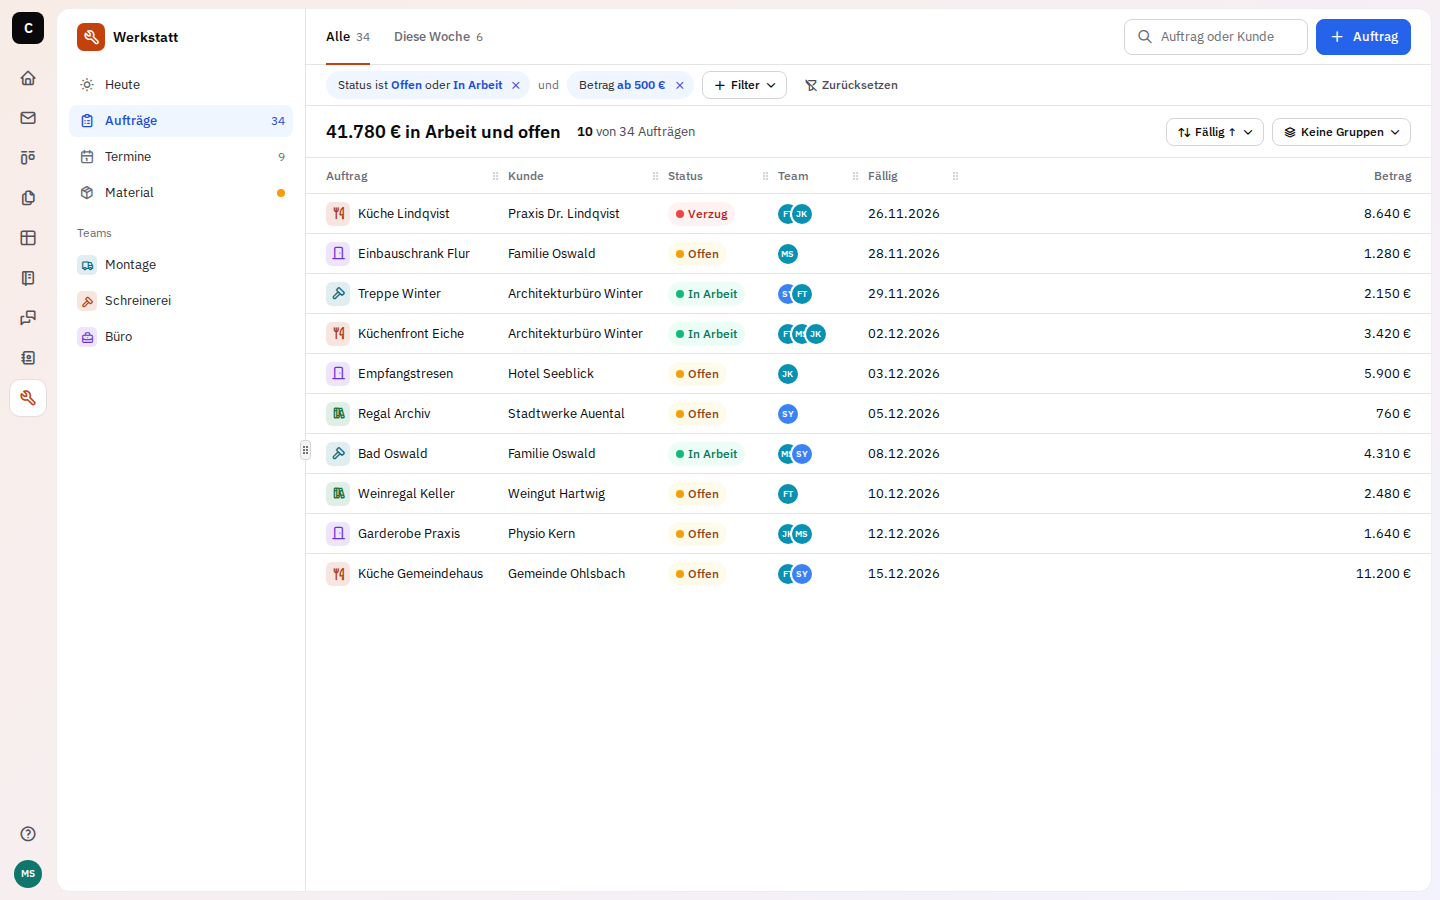
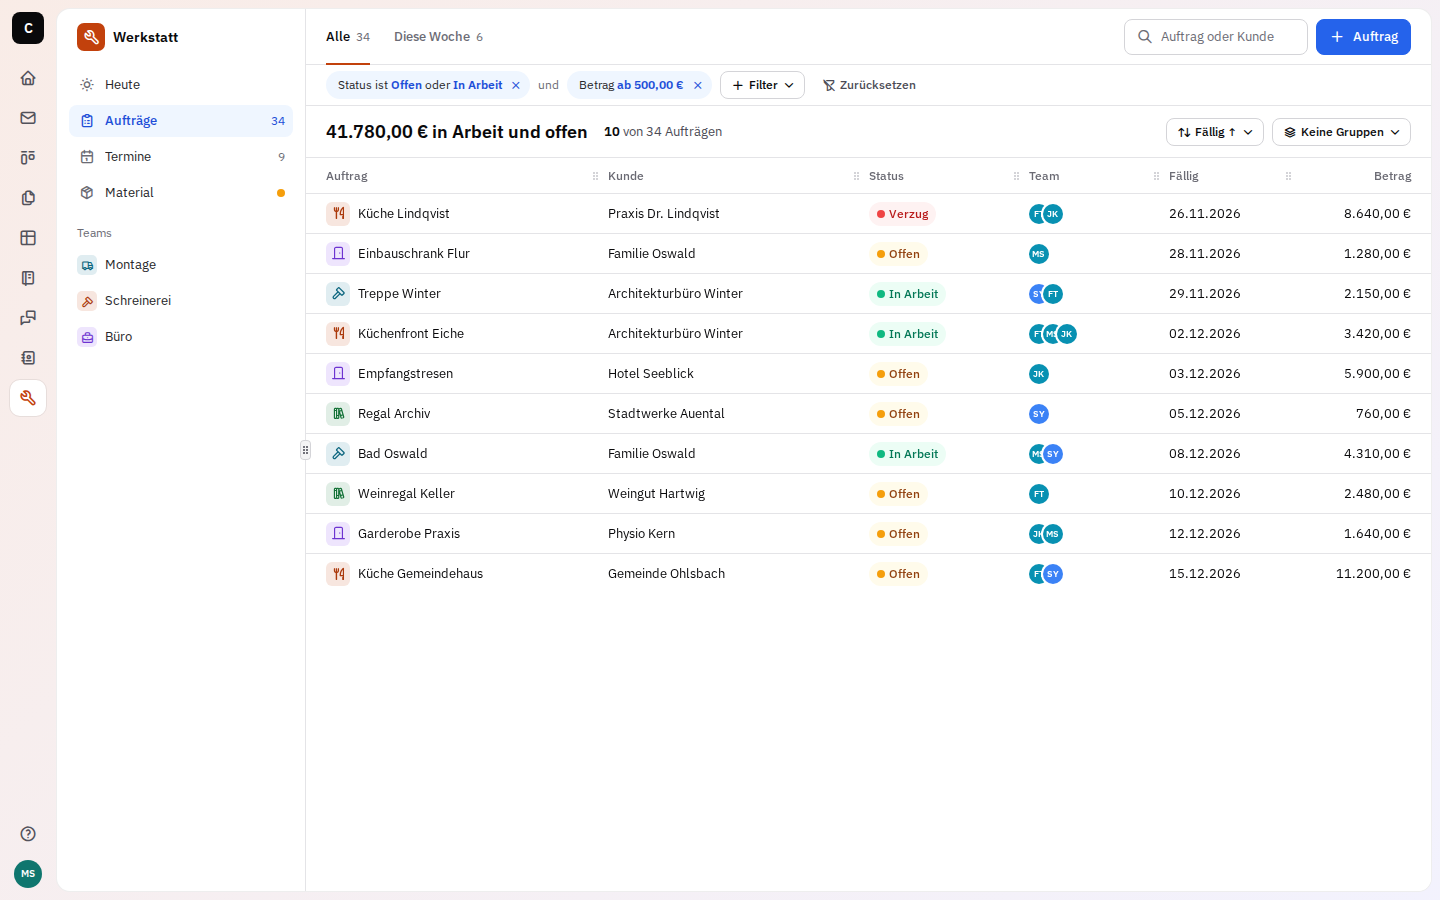
fix(ui): columns without a width fill the row exactly, and group heads stand at the height of the column heads

diff --git a/packages/ui/src/v2/content.tsx b/packages/ui/src/v2/content.tsx
@@ -504,8 +504,8 @@ export type Column<T> = {
    * The width of the column, its minimum and default in px: a column that can be dragged wider or narrower (a grip in
    * its head); in a small table it is its default wide where the row has room and shares the room left with the other
    * columns that can give way; where the row has less, it gives way down to its minimum. `{ fixed }` is that width
-   * without a grip, such as a narrow column of numbers or deeds; it neither gives way nor grows. Columns without a
-   * width take the rest of the row when no column can give way. Cut text never widens a column.
+   * without a grip, such as a narrow column of row actions; it neither gives way nor grows. Columns without a width
+   * share the rest of the row by how much their text asks for (at least 96 px each). Cut text never widens a column.
    */
   width?: Width;
   /** A text column that may wrap to at most three lines; the row grows, every other cell stays on its first line. */
@@ -697,16 +697,20 @@ export const Table = <T,>(props: TableProps<T>) => {
       return longest === 0 ? 0 : Math.max(longest, signsOf(column.title));
     }),
   );
-  // How long the text of each column is, in signs (its longest value, at least its head): the columns without a width
-  // share the rest of the row in this measure, so the one with more to say gets more room.
-  const lengths = createMemo(() =>
-    props.columns.map((column, index) =>
-      Math.max(
-        1,
-        signsOf(column.title),
-        values().reduce((most, row) => Math.max(most, signsOf(row[index]!)), 0),
-      ),
-    ),
+  // The room each column's content asks for, in px: a text its signs at about 7 px and the padding of its cell, a part
+  // the app made (a chip, a link, a button) as much as a column without a width; at least its head. The columns
+  // without a width share the rest of the row in this measure, so the one with more to say gets more room.
+  const rooms = createMemo(() =>
+    props.columns.map((column, index) => {
+      const text = (signs: number) => Math.max(signs, 1) * 7 + 32;
+      const ask = (value: CellValue) =>
+        typeof value === "string" || typeof value === "number" || isPair(value)
+          ? text(signsOf(value))
+          : value === undefined || value === null || typeof value === "boolean"
+            ? 0
+            : flexibleColumn;
+      return values().reduce((most, row) => Math.max(most, ask(row[index]!)), text(signsOf(column.title)));
+    }),
   );
   // What each column needs, in px: at least `lo` (its minimum; a numeric one its longest value) and at most `hi` (its
   // default). A column without a width counts with 96 and 160 px.
@@ -739,7 +743,7 @@ export const Table = <T,>(props: TableProps<T>) => {
   // The sums are over the columns shown: after `drop` columns left, the others share the room among themselves.
   // Above the sum of the defaults the room left is shared among the columns with a width that can give way (minimum
   // below default), in the measure they give way: no column takes all of it, and an action column at the end leaves
-  // no air on the right. A column without a width (a deed, a note) keeps its 160 px.
+  // no air on the right. Columns without a width take the rest themselves (below).
   const round = (value: number) => Math.round(value * 10000) / 10000;
   const shrink = (index: number, gone: ReadonlySet<number> = new Set()) => {
     const { lo, hi } = need()[index]!;
@@ -757,15 +761,16 @@ export const Table = <T,>(props: TableProps<T>) => {
     const span = (at: number) => (props.columns[at]!.width && !held(at) ? need()[at]!.hi - need()[at]!.lo : 0);
     const spans = need().reduce((sum, _, at) => (gone.has(at) ? sum : sum + span(at)), 0);
     const free = need().filter((_, at) => !gone.has(at) && props.columns[at]!.width === undefined).length;
-    // The columns without a width fill the whole rest of the row together, each in the measure of its text: a column
-    // cuts its text only when the row has no room left for both.
+    // The columns without a width fill the whole rest of the row together. Each keeps its minimum; what the row has
+    // beyond the others and those minimums (100cqw − most) goes to them in the measure their content asks for more
+    // than its minimum. So they sum to the row exactly from `least` on, and a short column raised to its minimum
+    // takes nothing from the long one's share (delta review of #4209: no sideways scroll at medium widths).
     const isFree = (at: number) => !gone.has(at) && props.columns[at]!.width === undefined;
     if (free > 0 && isFree(index)) {
-      const fixedSum = need().reduce((sum, each, at) => (gone.has(at) || isFree(at) ? sum : sum + each.hi), box);
-      // the room a text takes: its signs at about 7 px and the padding of its cell
-      const room = (at: number) => lengths()[at]! * 7 + 32;
-      const textSum = need().reduce((sum, _, at) => (isFree(at) ? sum + room(at) : sum), 0);
-      return `max(${lo}px, calc((100cqw - ${fixedSum}px) * ${round(room(index) / textSum)}))`;
+      const extra = (at: number) => Math.max(rooms()[at]! - need()[at]!.lo, 0);
+      const extras = need().reduce((sum, _, at) => (isFree(at) ? sum + extra(at) : sum), 0);
+      const weight = extras > 0 ? extra(index) / extras : 1 / free;
+      return `max(${lo}px, calc(${lo}px + (100cqw - ${most}px) * ${round(weight)}))`;
     }
     const lastShown = props.columns.findLastIndex((_, at) => !gone.has(at));
     const weight = free > 0 ? 0 : spans > 0 ? span(index) / spans : index === lastShown ? 1 : 0;

diff --git a/packages/ui/test/v2-fixtures.tsx b/packages/ui/test/v2-fixtures.tsx
@@ -643,7 +643,12 @@ export const fixtures = {
         <Table
           label="Programm"
           rowKey={(row) => row.key}
-          group={(row) => ({ key: row.day, head: () => <Text weight="strong">{row.day}</Text>, meta: row.count })}
+          group={(row) => ({
+            key: row.day,
+            // one head a word, one a chip: both stand at the same height
+            head: () => (row.day.startsWith("Sonntag") ? <Chip status="warn">{row.day}</Chip> : <Text weight="strong">{row.day}</Text>),
+            meta: row.count,
+          })}
           rows={[
             { key: "a", day: "Samstag, 28. Nov.", count: "2 Führungen", title: "Werkstattführung", host: "Mira Solberg", time: "10:00" },
             { key: "b", day: "Samstag, 28. Nov.", count: "2 Führungen", title: "Lackierwerk", host: "Felix Thal", time: "14:00" },
@@ -652,6 +657,30 @@ export const fixtures = {
           columns={[
             { title: "Führung", width: { min: 200, default: 260 }, cell: (row) => ({ lines: [row.title, row.host] }) },
             { title: "Zeit", width: { fixed: 80 }, numeric: true, cell: (row) => row.time },
+          ]}
+        />
+      </Pane>,
+    ),
+  // a short and a long text column beside a fixed deed (delta review of #4209): together they fill the row exactly
+  tableShortLong: () =>
+    shell(
+      <Pane label="Rollen">
+        <Table
+          label="Rollen"
+          rows={[
+            { role: "Gast", text: "Darf lesen und kommentieren, aber nichts ändern oder freigeben; sieht keine Preise und Kunden" },
+            { role: "Admin", text: "Darf alles, auch Rollen vergeben und Daten exportieren" },
+            { role: "Leser", text: "Liest" },
+            { role: "Team", text: "Arbeitet mit, darf Einträge anlegen, ändern und verschieben" },
+          ]}
+          columns={[
+            { title: "Rolle", cell: (row) => row.role },
+            { title: "Beschreibung", cell: (row) => row.text },
+            {
+              title: "Aktionen",
+              width: { fixed: 72 },
+              cell: (row) => <Button variant="ghost" icon="dots" label={`Weitere Aktionen für ${row.role}`} />,
+            },
           ]}
         />
       </Pane>,

diff --git a/packages/ui/src/v2/primitives.browser.test.ts b/packages/ui/src/v2/primitives.browser.test.ts
@@ -556,7 +556,8 @@ describe("v2 primitives keep the numbers of the mockup", () => {
         );
         expect(heads.length).toBe(2);
         for (const head of heads) {
-          expect(head.height).toBeLessThanOrEqual(40);
+          // a head with a word and a head with a chip stand at the same height, the height of the column heads
+          expect(head.height).toBe(36);
           expect(Math.abs(head.below - head.above)).toBeLessThanOrEqual(2);
         }
       } finally {
@@ -565,6 +566,29 @@ describe("v2 primitives keep the numbers of the mockup", () => {
     },
     TEST_TIMEOUT,
   );
+
+  // Delta review of #4209: a short text column raised to its 96 px minimum must not push the row past its place
+  for (const width of [640, 1024])
+    test(
+      `${width} px: a short and a long text column fill the row exactly, the table does not scroll`,
+      async () => {
+        const page = await open("tableShortLong", { width });
+        try {
+          const found = await page.evaluate(() => {
+            const scroller = document.querySelector<HTMLElement>(".k2-table-scroll")!;
+            const heads = [...document.querySelectorAll(".k2-table th")].map((head) => Math.round(head.getBoundingClientRect().width));
+            return { overflow: scroller.scrollWidth - scroller.clientWidth, heads };
+          });
+          expect(found.overflow).toBeLessThanOrEqual(0);
+          expect(found.heads[0]!).toBeGreaterThanOrEqual(96);
+          expect(found.heads[1]!).toBeGreaterThan(found.heads[0]!);
+          expect(found.heads[2]!).toBe(72);
+        } finally {
+          await page.close();
+        }
+      },
+      TEST_TIMEOUT,
+    );
 
   // The floating main action never covers the last row or field of a pane (W3, Spaces #4197): scrolled to its end, an
   // open entry's last field stands above the button, and describeV2 finds nothing it covers.

diff --git a/packages/ui/src/v2/v2.css b/packages/ui/src/v2/v2.css
@@ -1444,11 +1444,11 @@
   padding-block: 8px;
   vertical-align: top;
 }
-/* A group head of a small table is one quiet line at the height of its words (36 px with a word, 40 with a chip),
+/* A group head of a small table is one quiet line at the height of the column heads, with a word or a chip alike,
    its words on its middle: never the height of the rows of two lines it heads, with room left under it. */
 .k2-ui .k2-table:not([data-grid]) tr[data-group] > td {
-  height: auto;
-  padding-block: 8px;
+  height: var(--k2-h-columns);
+  padding-block: 0;
   vertical-align: middle;
 }
 .k2-ui .k2-table:not([data-grid]) tr[data-group] > td > .k2-group-row {

diff --git a/packages/ui/src/v2/types.ts b/packages/ui/src/v2/types.ts
@@ -11,8 +11,7 @@ export type OnNavigate = (event: LinkNavigateEvent) => void | Promise<void>;
 
 /**
  * The width of a column, in CSS px: `{ min, default }` can be dragged between its minimum and wider; `{ fixed }` keeps
- * that width without a grip, for a page to read rather than to arrange (a visitor page, a wall screen) or a narrow
- * column of numbers or deeds.
+ * that width without a grip, such as a narrow column of row actions.
  */
 export type Width = { min: number; default: number } | { fixed: number };
 

diff --git a/packages/ui/skills/k2b-ui/references/primitives.md b/packages/ui/skills/k2b-ui/references/primitives.md
@@ -228,13 +228,17 @@ never cut, the column at least as wide as its longest text value),
 `width={{ min, default }}` (its default where the row has room, sharing the
 room left with the other columns that can give way; down to its minimum
 where it has less; cut text never widens it; a grip in the head that a drag or the keys move; with
-`{ fixed }` that width without a grip, for a narrow number or deed column), `wrap` (one text column may take 3
+`{ fixed }` that width without a grip, for a narrow column of row actions), `wrap` (one text column may take 3
 lines), `drop` (leaves when the table has no room for it: one by one from
 the last such column, all of them in a column under 480 px), `sort` (its head is pressed to sort:
 `{ href }` to the page sorted so, with `onNavigate` to open it in place, or
 `{ onSort }` for a deed). The phone rows have no heads: a sort given by
 `href` stays in the address there; offer another order on the phone in the
-page itself if it needs one. A column without a width counts with 160 px. Chips,
+page itself if it needs one. The row is always filled: the columns without a
+width (at least 96 px each) share the rest of it by how much their text asks
+for, so a short column stays short and a long description gets the room;
+without them the columns that can give way grow; when every column is fixed,
+the last one takes the rest. Chips,
 `Progress`, text buttons are fine in cells. `open(row) => { href } | {
 onOpen }` makes each row open its entry.
 
